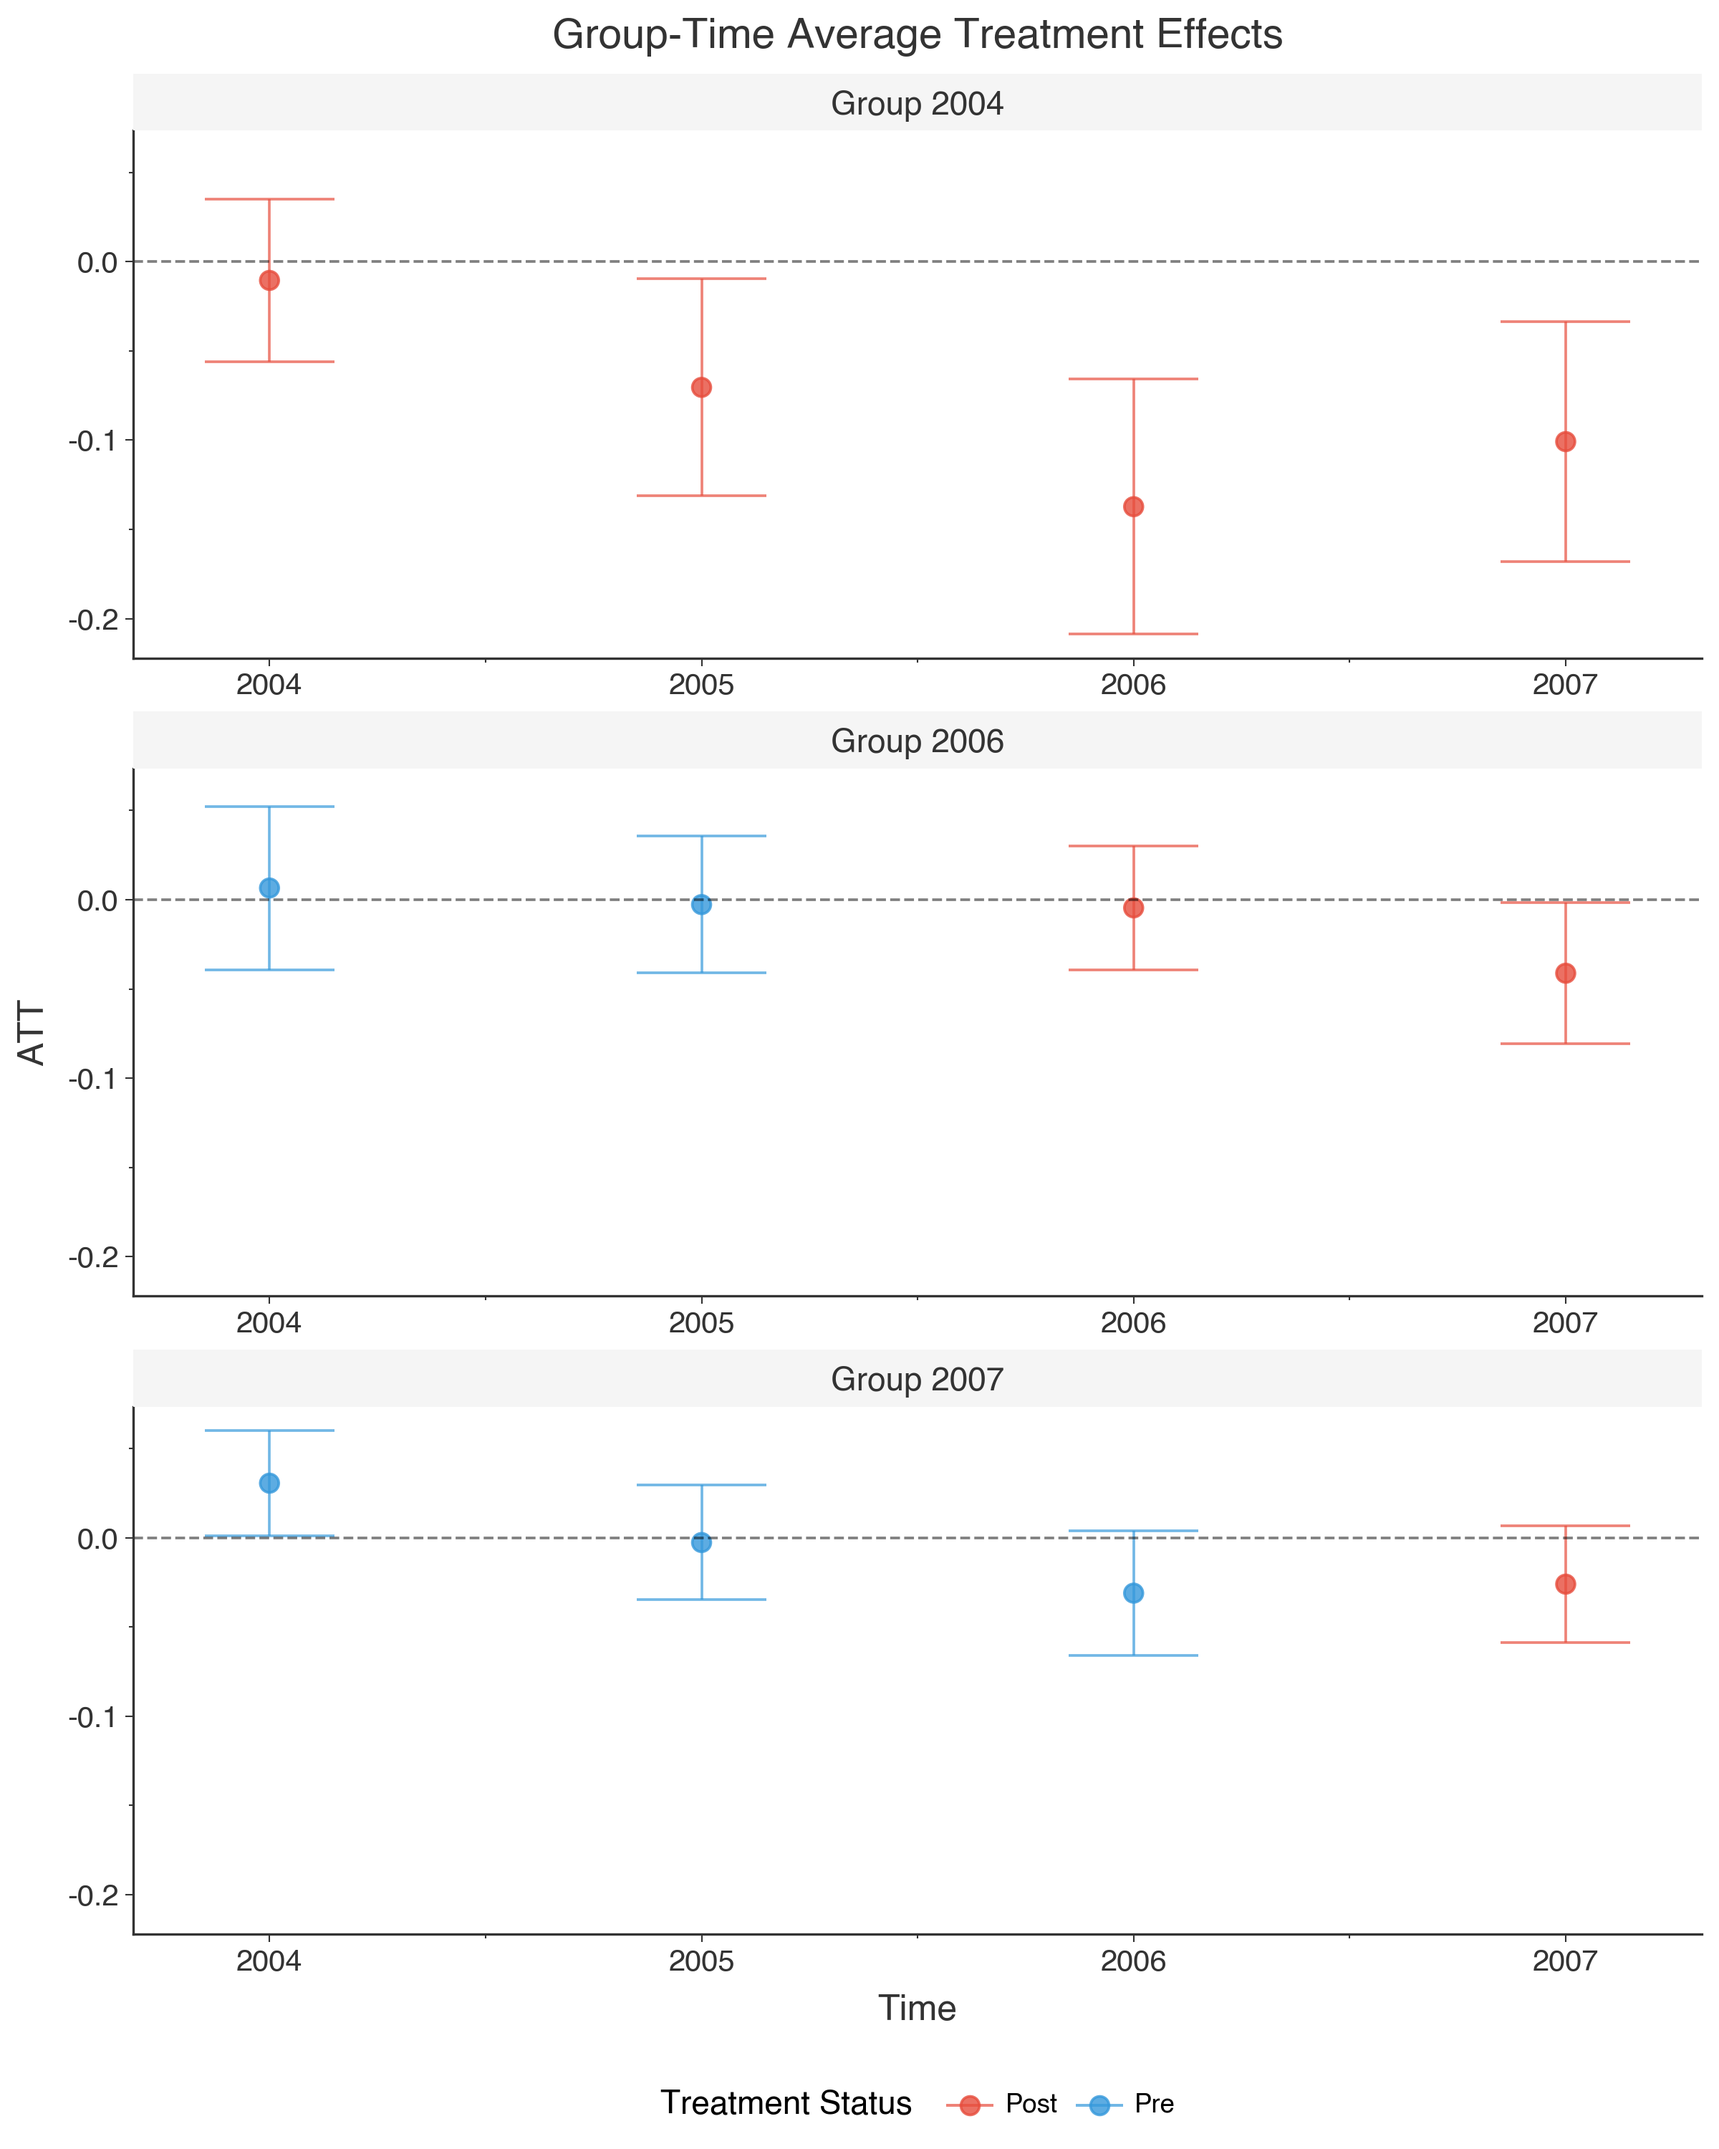
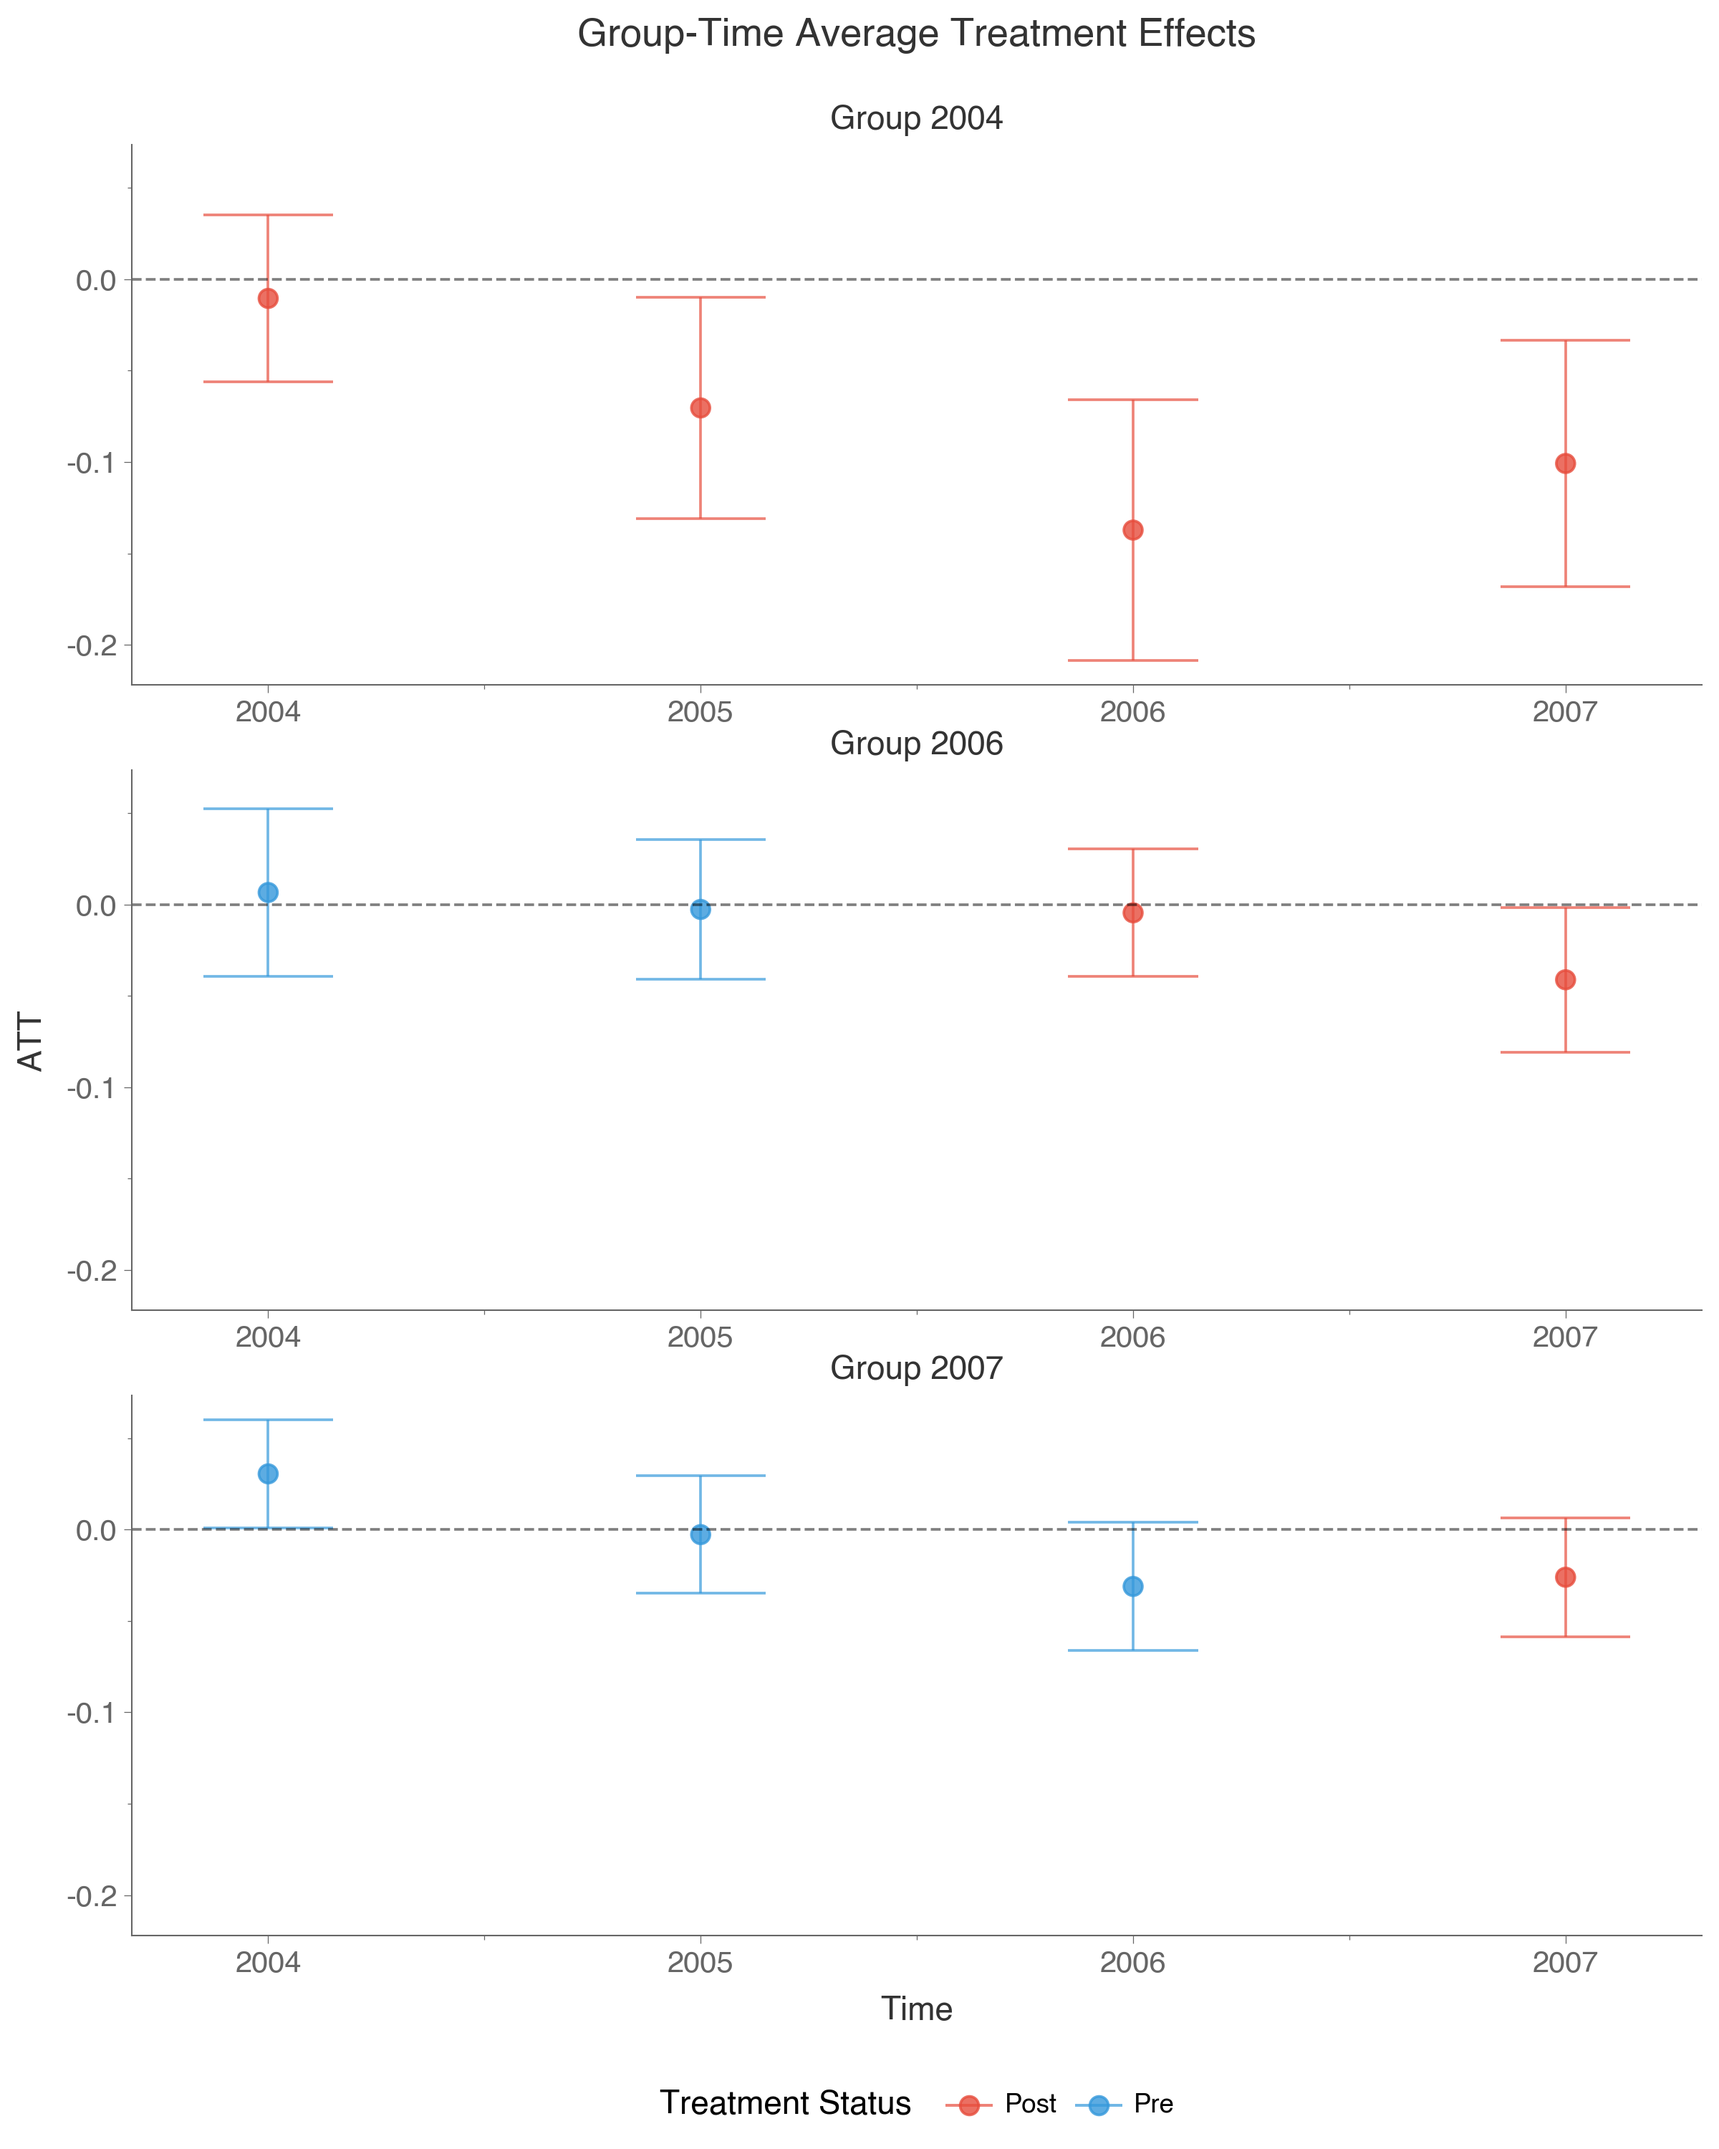
FEAT: use minimal theme for plotting

diff --git a/moderndid/plots/plots.py b/moderndid/plots/plots.py
@@ -37,7 +37,7 @@ from moderndid.plots.converters import (
     mpresult_to_polars,
     pteresult_to_polars,
 )
-from moderndid.plots.themes import COLORS, theme_moderndid
+from moderndid.plots.themes import COLORS, theme_minimal
 
 if TYPE_CHECKING:
     from moderndid.didcont.estimation.container import DoseResult, PTEResult
@@ -105,9 +105,10 @@ def plot_gt(
             y=ylab or "ATT",
             title=plot_title,
         )
-        + theme_moderndid()
+        + theme_minimal()
         + theme(
             strip_text=element_text(size=11, weight="bold"),
+            plot_title=element_text(margin={"b": 25}),
             legend_position="bottom",
         )
     )
@@ -191,7 +192,7 @@ def plot_event_study(
 
     plot = (
         plot
-        + geom_line(color=COLORS["line"], size=0.8, alpha=0.6)
+        + geom_line(color=COLORS["line"], size=0.8, alpha=0.6, linetype="dotted")
         + geom_point(aes(color="treatment_status"), size=3.5)
         + scale_color_manual(
             values={"Pre": COLORS["pre_treatment"], "Post": COLORS["post_treatment"]},
@@ -202,7 +203,7 @@ def plot_event_study(
             y=ylab or "ATT",
             title=title or default_title,
         )
-        + theme_moderndid()
+        + theme_minimal()
         + theme(legend_position="bottom")
     )
 
@@ -288,7 +289,7 @@ def plot_agg(
             y=ylab or "ATT",
             title=title or default_title,
         )
-        + theme_moderndid()
+        + theme_minimal()
     )
 
     return plot
@@ -356,7 +357,7 @@ def plot_dose_response(
             y=ylab or default_ylabel,
             title=title or default_title,
         )
-        + theme_moderndid()
+        + theme_minimal()
     )
 
     return plot
@@ -425,7 +426,7 @@ def plot_sensitivity(
             y=ylab or "Confidence Interval",
             title=title or default_title,
         )
-        + theme_moderndid()
+        + theme_minimal()
         + theme(legend_position="bottom")
     )
 
@@ -495,7 +496,7 @@ def plot_multiplegt(
             y=ylab or "Effect",
             title=title or "Intertemporal Treatment Effects",
         )
-        + theme_moderndid()
+        + theme_minimal()
         + theme(legend_position="bottom")
     )
 

diff --git a/README.md b/README.md
@@ -215,7 +215,7 @@ did.plot_event_study(event_study)
 
 ### Benchmarks
 
-Our package is built for speed. Python implementations shows significant speed improvements as observations grow compared to the canonical R packages:
+Our package is built for speed. Python implementations shows significant speed improvements as observations grow compared to the canonical R packages.
 
 <img src="https://raw.githubusercontent.com/jordandeklerk/moderndid/main/benchmark/output/benchmark_scaling_hires.png" alt="Benchmark plot">
 
